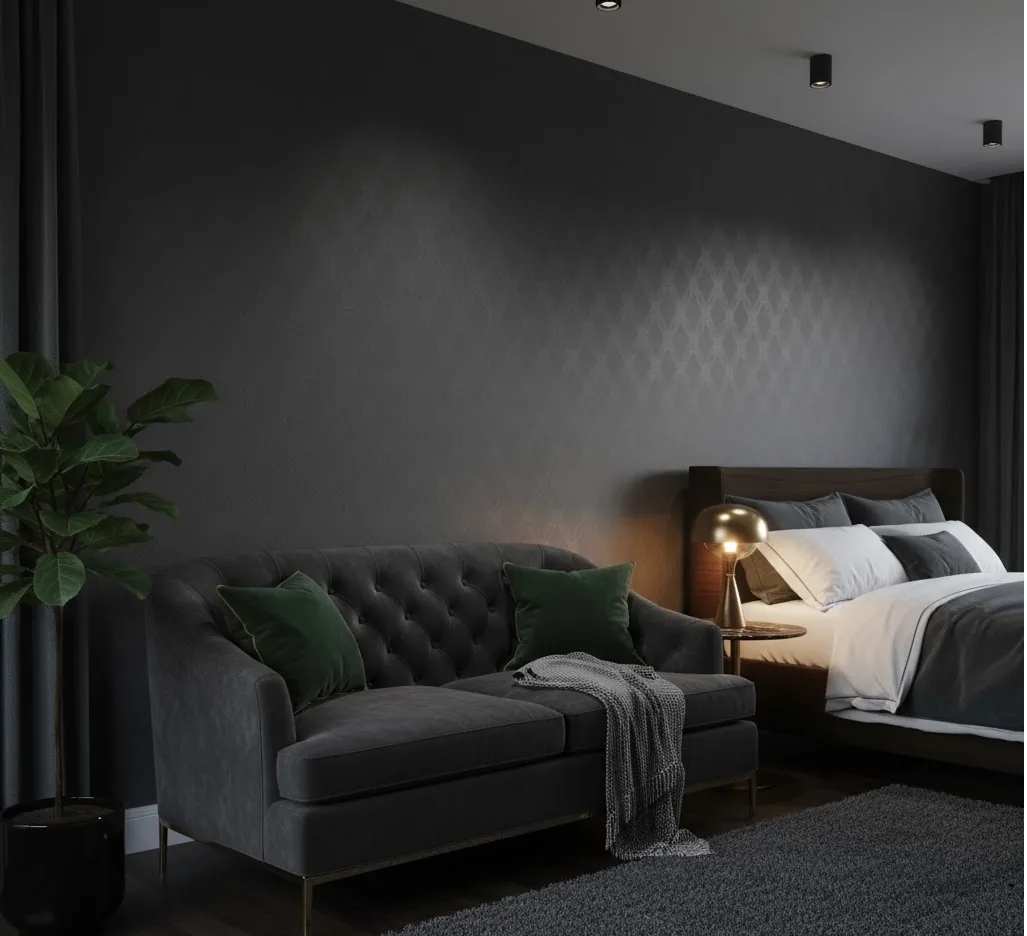
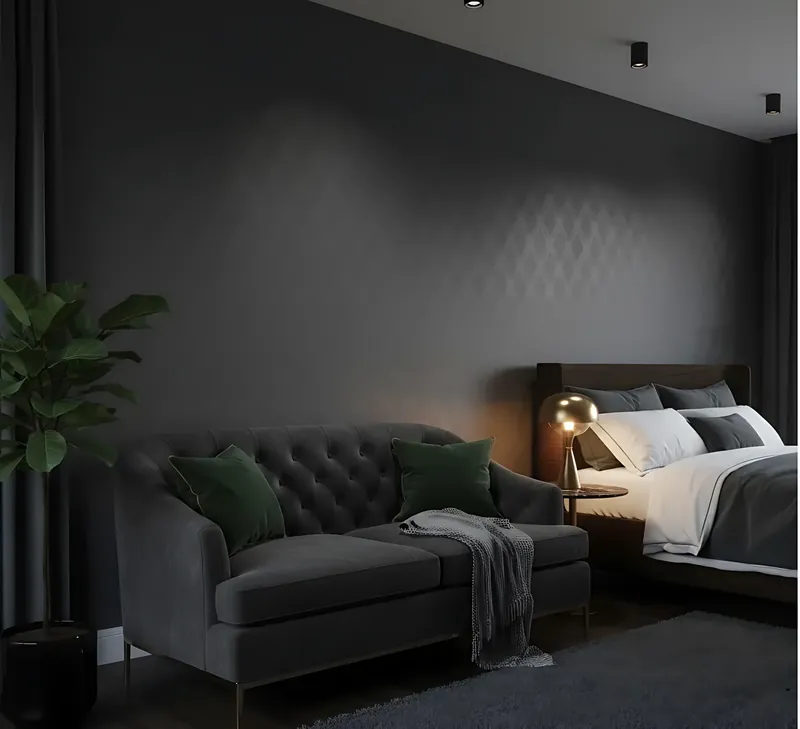
Gallery: upscaled sofa 2-8, 10 and door 4-5 photos
Claude-Session: https://claude.ai/code/session_01ELdwAKhBt2vqUy2cJdKuWJ

Changed region(s): [[0.75, 0.6639, 0.7812, 0.6941], [0.75, 0.6036, 0.7812, 0.6337], [0.625, 0.8752, 0.6562, 0.9053]]

diff --git a/gallery.html b/gallery.html
@@ -174,7 +174,7 @@
           <figure class="gx-tile" data-cat="tv"><img src="images/tv1.webp" alt="TV unit by Wood Works Studio" width="747" height="946" loading="lazy" decoding="async" /><figcaption>TV unit</figcaption></figure>
           <figure class="gx-tile" data-cat="vanity"><img src="images/vanity1.webp" alt="Bathroom vanity by Wood Works Studio" width="800" height="1715" loading="lazy" decoding="async" /><figcaption>Bathroom vanity</figcaption></figure>
           <figure class="gx-tile" data-cat="wardrobe"><img src="images/wardrobe2.webp" alt="Custom wardrobe by Wood Works Studio" width="800" height="622" loading="lazy" decoding="async" /><figcaption>Custom wardrobe</figcaption></figure>
-          <figure class="gx-tile" data-cat="sofa"><img src="images/sofa2.webp" alt="Custom sofa by Wood Works Studio" width="1024" height="930" loading="lazy" decoding="async" /><figcaption>Custom sofa</figcaption></figure>
+          <figure class="gx-tile" data-cat="sofa"><img src="images/sofa2.webp" alt="Custom sofa by Wood Works Studio" width="800" height="726" loading="lazy" decoding="async" /><figcaption>Custom sofa</figcaption></figure>
           <figure class="gx-tile" data-cat="bed"><img src="images/bed2.webp" alt="Custom bed by Wood Works Studio" width="448" height="950" loading="lazy" decoding="async" /><figcaption>Custom bed</figcaption></figure>
           <figure class="gx-tile" data-cat="table"><img src="images/table2.webp" alt="Custom table by Wood Works Studio" width="800" height="742" loading="lazy" decoding="async" /><figcaption>Custom table</figcaption></figure>
           <figure class="gx-tile" data-cat="counter"><img src="images/counter2.webp" alt="Kitchen counter by Wood Works Studio" width="1000" height="1047" loading="lazy" decoding="async" /><figcaption>Kitchen counter</figcaption></figure>
@@ -182,7 +182,7 @@
           <figure class="gx-tile" data-cat="tv"><img src="images/tv2.webp" alt="TV unit by Wood Works Studio" width="952" height="691" loading="lazy" decoding="async" /><figcaption>TV unit</figcaption></figure>
           <figure class="gx-tile" data-cat="vanity"><img src="images/vanity2.webp" alt="Bathroom vanity by Wood Works Studio" width="800" height="681" loading="lazy" decoding="async" /><figcaption>Bathroom vanity</figcaption></figure>
           <figure class="gx-tile" data-cat="wardrobe"><img src="images/wardrobe3.webp" alt="Custom wardrobe by Wood Works Studio" width="800" height="837" loading="lazy" decoding="async" /><figcaption>Custom wardrobe</figcaption></figure>
-          <figure class="gx-tile" data-cat="sofa"><img src="images/sofa3.webp" alt="Custom sofa by Wood Works Studio" width="1024" height="946" loading="lazy" decoding="async" /><figcaption>Custom sofa</figcaption></figure>
+          <figure class="gx-tile" data-cat="sofa"><img src="images/sofa3.webp" alt="Custom sofa by Wood Works Studio" width="800" height="739" loading="lazy" decoding="async" /><figcaption>Custom sofa</figcaption></figure>
           <figure class="gx-tile" data-cat="bed"><img src="images/bed3.webp" alt="Custom bed by Wood Works Studio" width="900" height="1126" loading="lazy" decoding="async" /><figcaption>Custom bed</figcaption></figure>
           <figure class="gx-tile" data-cat="table"><img src="images/table3.webp" alt="Custom table by Wood Works Studio" width="800" height="548" loading="lazy" decoding="async" /><figcaption>Custom table</figcaption></figure>
           <figure class="gx-tile" data-cat="counter"><img src="images/counter3.webp" alt="Kitchen counter by Wood Works Studio" width="747" height="900" loading="lazy" decoding="async" /><figcaption>Kitchen counter</figcaption></figure>
@@ -190,29 +190,29 @@
           <figure class="gx-tile" data-cat="tv"><img src="images/tv3.webp" alt="TV unit by Wood Works Studio" width="965" height="448" loading="lazy" decoding="async" /><figcaption>TV unit</figcaption></figure>
           <figure class="gx-tile" data-cat="vanity"><img src="images/vanity3.webp" alt="Bathroom vanity by Wood Works Studio" width="800" height="735" loading="lazy" decoding="async" /><figcaption>Bathroom vanity</figcaption></figure>
           <figure class="gx-tile" data-cat="wardrobe"><img src="images/wardrobe4.webp" alt="Custom wardrobe by Wood Works Studio" width="800" height="671" loading="lazy" decoding="async" /><figcaption>Custom wardrobe</figcaption></figure>
-          <figure class="gx-tile" data-cat="sofa"><img src="images/sofa4.webp" alt="Custom sofa by Wood Works Studio" width="1024" height="927" loading="lazy" decoding="async" /><figcaption>Custom sofa</figcaption></figure>
+          <figure class="gx-tile" data-cat="sofa"><img src="images/sofa4.webp" alt="Custom sofa by Wood Works Studio" width="800" height="724" loading="lazy" decoding="async" /><figcaption>Custom sofa</figcaption></figure>
           <figure class="gx-tile" data-cat="bed"><img src="images/bed4.webp" alt="Custom bed by Wood Works Studio" width="888" height="747" loading="lazy" decoding="async" /><figcaption>Custom bed</figcaption></figure>
           <figure class="gx-tile" data-cat="table"><img src="images/table4.webp" alt="Custom table by Wood Works Studio" width="800" height="729" loading="lazy" decoding="async" /><figcaption>Custom table</figcaption></figure>
           <figure class="gx-tile" data-cat="counter"><img src="images/counter4.webp" alt="Kitchen counter by Wood Works Studio" width="969" height="448" loading="lazy" decoding="async" /><figcaption>Kitchen counter</figcaption></figure>
-          <figure class="gx-tile" data-cat="door"><img src="images/door4.webp" alt="Wooden door by Wood Works Studio" width="448" height="931" loading="lazy" decoding="async" /><figcaption>Wooden door</figcaption></figure>
+          <figure class="gx-tile" data-cat="door"><img src="images/door4.webp" alt="Wooden door by Wood Works Studio" width="800" height="1663" loading="lazy" decoding="async" /><figcaption>Wooden door</figcaption></figure>
           <figure class="gx-tile" data-cat="vanity"><img src="images/vanity4.webp" alt="Bathroom vanity by Wood Works Studio" width="800" height="736" loading="lazy" decoding="async" /><figcaption>Bathroom vanity</figcaption></figure>
           <figure class="gx-tile" data-cat="wardrobe"><img src="images/wardrobe5.webp" alt="Custom wardrobe by Wood Works Studio" width="800" height="634" loading="lazy" decoding="async" /><figcaption>Custom wardrobe</figcaption></figure>
-          <figure class="gx-tile" data-cat="sofa"><img src="images/sofa5.webp" alt="Custom sofa by Wood Works Studio" width="1024" height="902" loading="lazy" decoding="async" /><figcaption>Custom sofa</figcaption></figure>
+          <figure class="gx-tile" data-cat="sofa"><img src="images/sofa5.webp" alt="Custom sofa by Wood Works Studio" width="800" height="705" loading="lazy" decoding="async" /><figcaption>Custom sofa</figcaption></figure>
           <figure class="gx-tile" data-cat="bed"><img src="images/bed5.webp" alt="Custom bed by Wood Works Studio" width="894" height="448" loading="lazy" decoding="async" /><figcaption>Custom bed</figcaption></figure>
           <figure class="gx-tile" data-cat="table"><img src="images/table5.webp" alt="Custom table by Wood Works Studio" width="1024" height="932" loading="lazy" decoding="async" /><figcaption>Custom table</figcaption></figure>
-          <figure class="gx-tile" data-cat="door"><img src="images/door5.webp" alt="Wooden door by Wood Works Studio" width="747" height="952" loading="lazy" decoding="async" /><figcaption>Wooden door</figcaption></figure>
+          <figure class="gx-tile" data-cat="door"><img src="images/door5.webp" alt="Wooden door by Wood Works Studio" width="800" height="1020" loading="lazy" decoding="async" /><figcaption>Wooden door</figcaption></figure>
           <figure class="gx-tile" data-cat="wardrobe"><img src="images/wardrobe6.webp" alt="Custom wardrobe by Wood Works Studio" width="800" height="1307" loading="lazy" decoding="async" /><figcaption>Custom wardrobe</figcaption></figure>
-          <figure class="gx-tile" data-cat="sofa"><img src="images/sofa6.webp" alt="Custom sofa by Wood Works Studio" width="1027" height="936" loading="lazy" decoding="async" /><figcaption>Custom sofa</figcaption></figure>
+          <figure class="gx-tile" data-cat="sofa"><img src="images/sofa6.webp" alt="Custom sofa by Wood Works Studio" width="800" height="729" loading="lazy" decoding="async" /><figcaption>Custom sofa</figcaption></figure>
           <figure class="gx-tile" data-cat="bed"><img src="images/bed6.webp" alt="Custom bed by Wood Works Studio" width="1024" height="949" loading="lazy" decoding="async" /><figcaption>Custom bed</figcaption></figure>
           <figure class="gx-tile" data-cat="table"><img src="images/table6.webp" alt="Custom table by Wood Works Studio" width="949" height="904" loading="lazy" decoding="async" /><figcaption>Custom table</figcaption></figure>
           <figure class="gx-tile" data-cat="wardrobe"><img src="images/wardrobe7.webp" alt="Custom wardrobe by Wood Works Studio" width="800" height="1559" loading="lazy" decoding="async" /><figcaption>Custom wardrobe</figcaption></figure>
-          <figure class="gx-tile" data-cat="sofa"><img src="images/sofa7.webp" alt="Custom sofa by Wood Works Studio" width="1024" height="948" loading="lazy" decoding="async" /><figcaption>Custom sofa</figcaption></figure>
+          <figure class="gx-tile" data-cat="sofa"><img src="images/sofa7.webp" alt="Custom sofa by Wood Works Studio" width="800" height="741" loading="lazy" decoding="async" /><figcaption>Custom sofa</figcaption></figure>
           <figure class="gx-tile" data-cat="wardrobe"><img src="images/wardrobe8.webp" alt="Custom wardrobe by Wood Works Studio" width="800" height="1597" loading="lazy" decoding="async" /><figcaption>Custom wardrobe</figcaption></figure>
-          <figure class="gx-tile" data-cat="sofa"><img src="images/sofa8.webp" alt="Custom sofa by Wood Works Studio" width="1024" height="931" loading="lazy" decoding="async" /><figcaption>Custom sofa</figcaption></figure>
+          <figure class="gx-tile" data-cat="sofa"><img src="images/sofa8.webp" alt="Custom sofa by Wood Works Studio" width="800" height="727" loading="lazy" decoding="async" /><figcaption>Custom sofa</figcaption></figure>
           <figure class="gx-tile" data-cat="wardrobe"><img src="images/wardrobe9.webp" alt="Custom wardrobe by Wood Works Studio" width="800" height="1605" loading="lazy" decoding="async" /><figcaption>Custom wardrobe</figcaption></figure>
           <figure class="gx-tile" data-cat="sofa"><img src="images/sofa9.webp" alt="Custom sofa by Wood Works Studio" width="800" height="624" loading="lazy" decoding="async" /><figcaption>Custom sofa</figcaption></figure>
           <figure class="gx-tile" data-cat="wardrobe"><img src="images/wardrobe10.webp" alt="Custom wardrobe by Wood Works Studio" width="800" height="1572" loading="lazy" decoding="async" /><figcaption>Custom wardrobe</figcaption></figure>
-          <figure class="gx-tile" data-cat="sofa"><img src="images/sofa10.webp" alt="Custom sofa by Wood Works Studio" width="1024" height="826" loading="lazy" decoding="async" /><figcaption>Custom sofa</figcaption></figure>
+          <figure class="gx-tile" data-cat="sofa"><img src="images/sofa10.webp" alt="Custom sofa by Wood Works Studio" width="800" height="645" loading="lazy" decoding="async" /><figcaption>Custom sofa</figcaption></figure>
           <figure class="gx-tile" data-cat="wardrobe"><img src="images/wardrobe11.webp" alt="Custom wardrobe by Wood Works Studio" width="800" height="1023" loading="lazy" decoding="async" /><figcaption>Custom wardrobe</figcaption></figure>
         </div>
         <div class="gx-more" data-gx-more><button type="button" class="wh-work-all">Show more pieces ↓</button></div>
